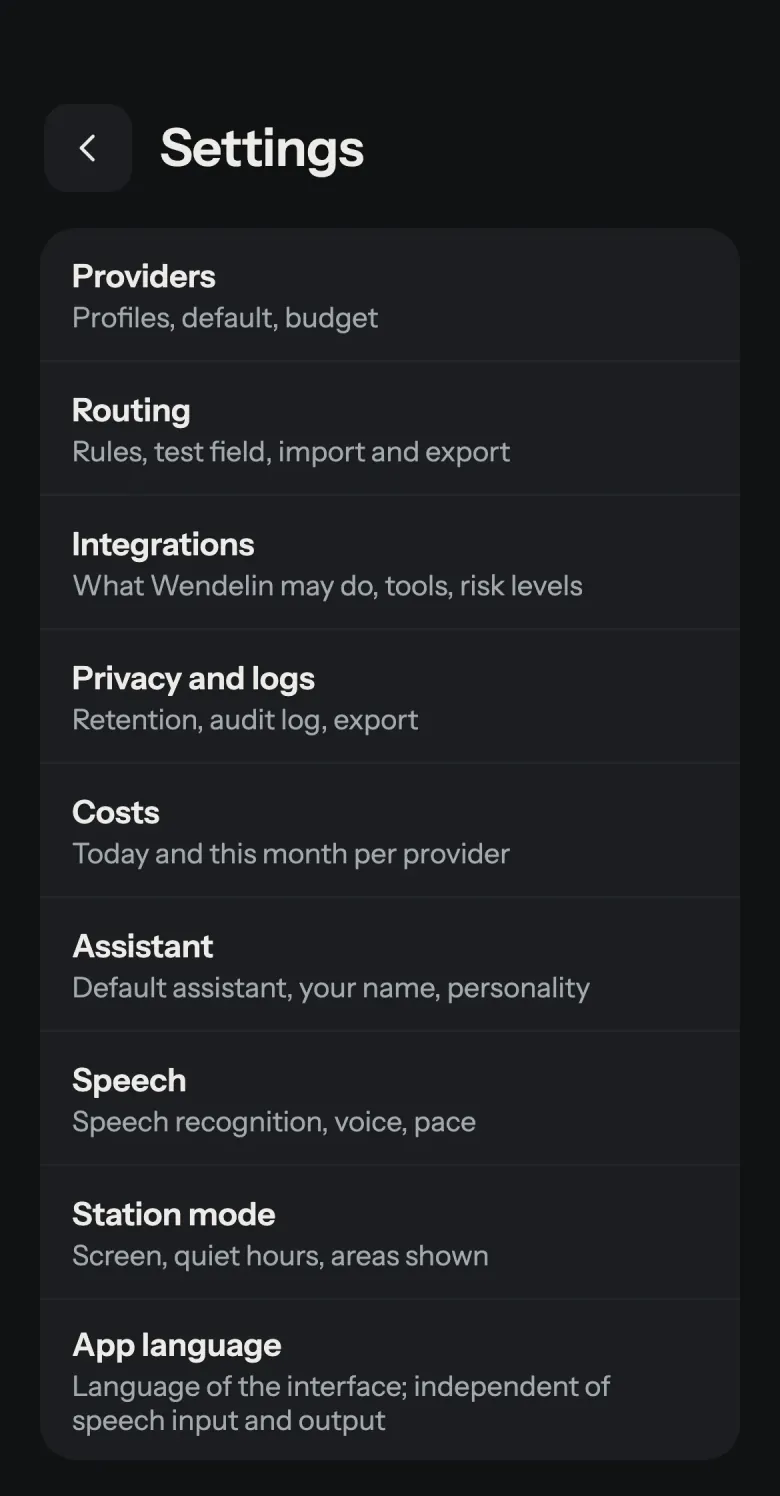
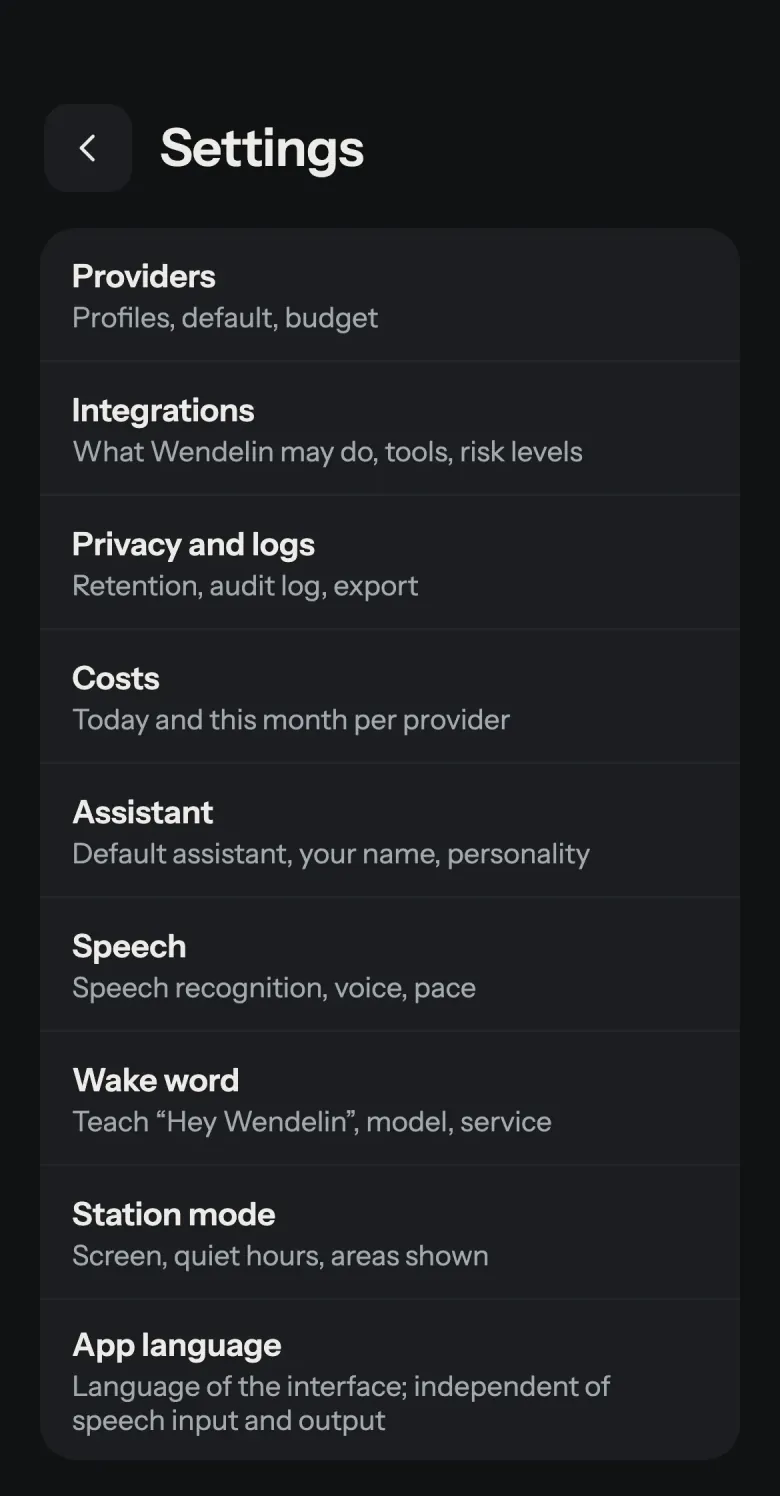
docs: WP169 Einstellungen-Screenshot und Menüpfad Aktivierungswort nach WP173

diff --git a/README.de.md b/README.de.md
@@ -69,7 +69,7 @@ Voraussetzung: **Android 10 oder neuer**. Google Play Services werden nicht gebr
 
 1. Wendelin öffnen und dem Onboarding folgen. Das Mikrofon freigeben; die Sprachmodelle werden in der App geladen.
 2. **Provider einrichten** (Einstellungen > Provider): Vorlage wählen, API-Schlüssel eintragen und den Verbindungstest laufen lassen. Der Schlüssel bleibt im Android Keystore. Bei Anbietern mit vertraulicher Ausführung zeigt die App das Prüfergebnis beim Anbieter an.
-3. Wendelin zum **Standard-Assistenten** machen (die App führt zur Android-Einstellung) und **Hey Wendelin** einschalten, wenn du freihändig sprechen willst.
+3. Wendelin zum **Standard-Assistenten** machen (die App führt zur Android-Einstellung) und **Hey Wendelin** einschalten (Einstellungen > Aktivierungswort), wenn du freihändig sprechen willst.
 4. Die gewünschten **Integrationen** einschalten (Einstellungen > Integrationen) und die jeweils nötigen Berechtigungen erteilen.
 5. Sag zum Beispiel: „Hey Wendelin, stell einen Timer auf zehn Minuten.“
 

diff --git a/README.md b/README.md
@@ -69,7 +69,7 @@ Requirements: **Android 10 or later**. Google Play Services are not needed.
 
 1. Open Wendelin and follow the onboarding. Grant the microphone permission; the speech models are downloaded in the app.
 2. **Set up a provider** (Settings > Providers): pick a template, enter your API key and run the connection test. The key stays in the Android Keystore. For providers with confidential execution, the verification result is shown with the provider.
-3. Make Wendelin your **default assistant** (the app takes you to the Android setting) and switch on **Hey Wendelin** if you want hands-free use.
+3. Make Wendelin your **default assistant** (the app takes you to the Android setting) and switch on **Hey Wendelin** (Settings > Wake word) if you want hands-free use.
 4. Switch on the **integrations** you want (Settings > Integrations) and grant the permissions each one asks for.
 5. Say, for example: "Hey Wendelin, set a timer for ten minutes."
 
